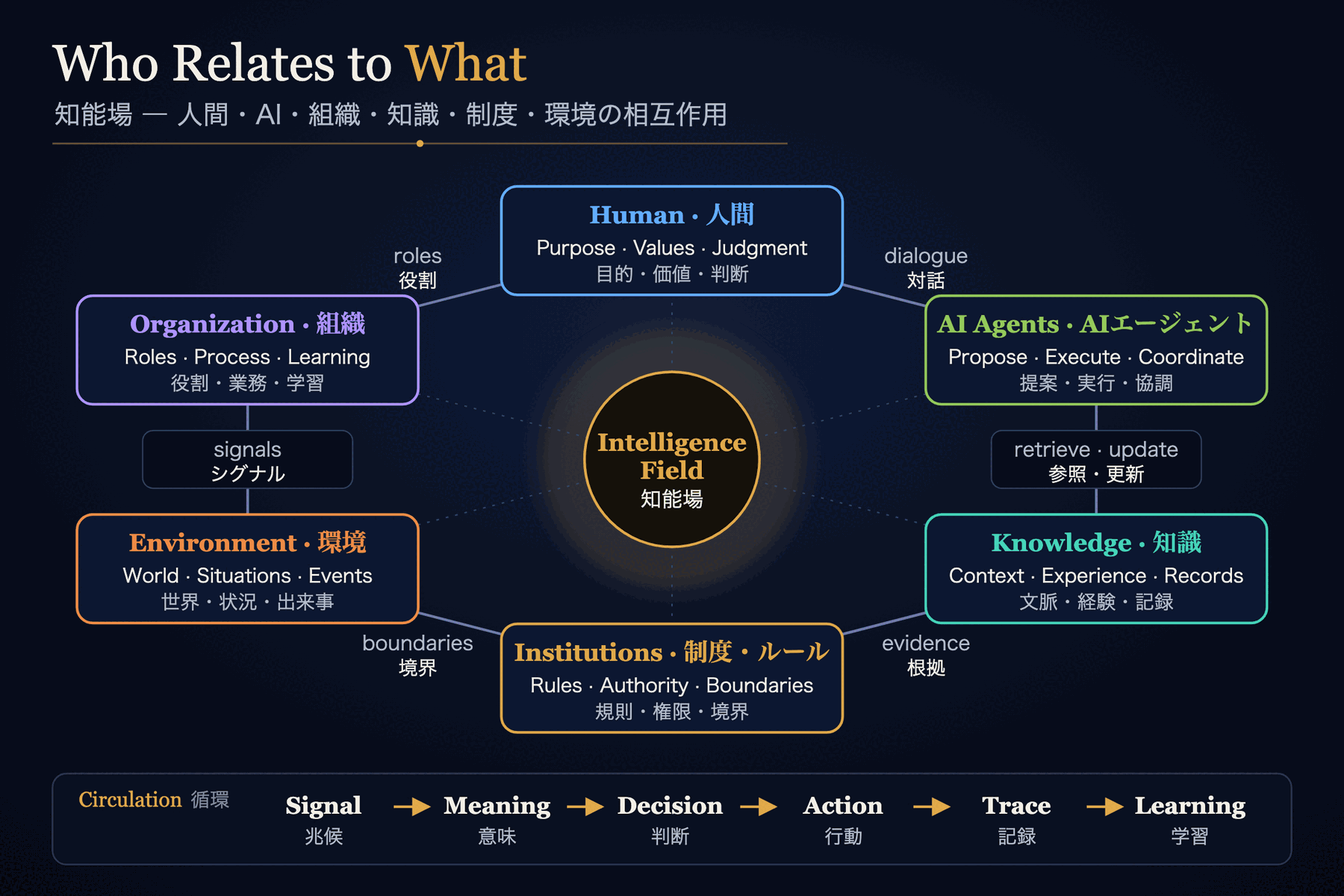
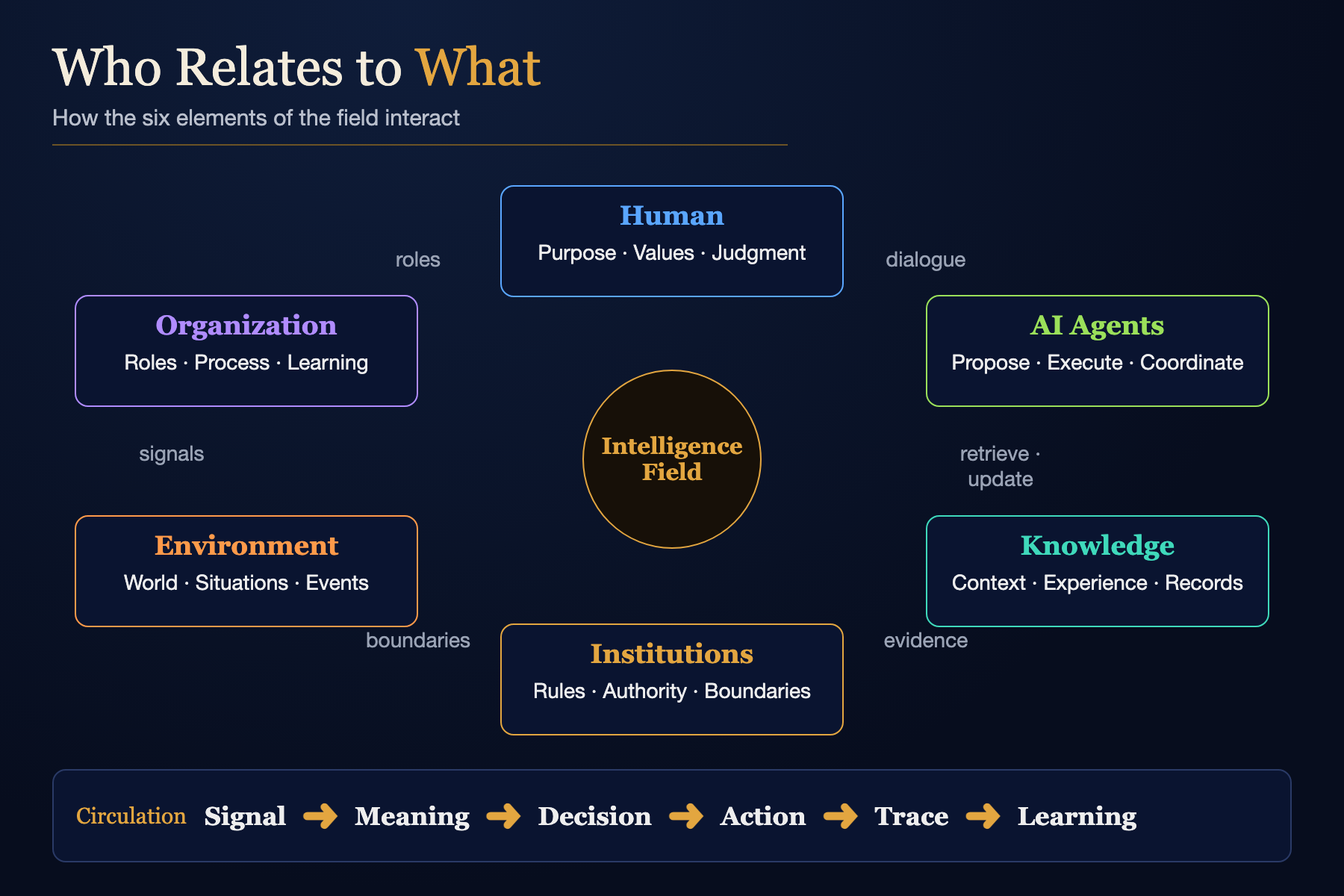
Unify philosophy of AI page in English

diff --git a/research/philosophy-of-ai/index.html b/research/philosophy-of-ai/index.html
@@ -486,31 +486,23 @@
         relationships among humans, AI agents, organizations, knowledge,
         institutions, and environment — an <strong>Intelligence Field</strong>.
       </p>
-      <p class="hero-desc ja" lang="ja" style="margin-top:14px;font-size:14px;">
-        知能は単体の能力ではなく、人・AI・組織・知識・制度・環境の「関係」の中で形づくられる——
-        その関係の空間を「知能場（Intelligence Field）」と呼び、AIの設計と統治の出発点として問い直します。
-      </p>
 
       <div class="q-grid" aria-label="Four guiding questions">
         <a class="q" href="#problem">
           <div class="q-idx">Q1 / Problem</div>
           <p class="q-text">Why is “a smarter single AI” not enough?</p>
-          <span class="ja" lang="ja">なぜ「より賢い単一AI」だけでは足りないのか</span>
         </a>
         <a class="q" href="#field">
           <div class="q-idx">Q2 / Concept</div>
           <p class="q-text">What is an Intelligence Field?</p>
-          <span class="ja" lang="ja">知能場（Intelligence Field）とは何か</span>
         </a>
         <a class="q" href="#implications">
           <div class="q-idx">Q3 / Governance</div>
           <p class="q-text">In what relationships should AI be designed and governed?</p>
-          <span class="ja" lang="ja">組織・社会で、AIはどんな関係性の中で設計・統治されるべきか</span>
         </a>
         <a class="q" href="#implications">
           <div class="q-idx">Q4 / Practice</div>
           <p class="q-text">What does this change in real AI system design?</p>
-          <span class="ja" lang="ja">実際のAIシステム設計に何をもたらすのか</span>
         </a>
       </div>
 
@@ -533,7 +525,7 @@
                alt="From a single model to an Intelligence Field — the single-intelligence view places intelligence inside one model with one subject, one center, and one world model; the Intelligence Field places it in the circulating relationships among humans, AI agents, organizations, and knowledge"
                loading="lazy">
         </a>
-        <figcaption class="figure-caption">Fig. 01 — From a single model to an Intelligence Field（単一知能モデルから知能の場へ）</figcaption>
+        <figcaption class="figure-caption">Fig. 01 — From a single model to an Intelligence Field</figcaption>
       </figure>
     </div>
   </header>
@@ -549,7 +541,6 @@
           autonomous agents. Yet the harder problems appear when AI connects
           to society, and they are not problems a single model can solve alone.
         </p>
-        <span class="gloss" lang="ja">モデルが賢くなるほど、本当の課題は「社会とどう接続するか」に移ります。</span>
       </div>
 
       <div class="concept-grid cols-4">
@@ -557,25 +548,21 @@
           <div class="idx">i</div>
           <h3>The single-subject assumption</h3>
           <p>AGI is often imagined as one subject, one center, one complete world model. Human intelligence, by contrast, has always formed through other people, organizations, culture, and institutions.</p>
-          <span class="ja" lang="ja">単一の主体・中心・世界モデルという前提</span>
         </div>
         <div class="concept">
           <div class="idx">ii</div>
           <h3>Knowledge is no longer scarce</h3>
           <p>Generative AI has collapsed the cost of producing knowledge. The bottleneck moves from <em>having</em> knowledge to meaning, trust, and responsibility for its use.</p>
-          <span class="ja" lang="ja">知識のコモディティ化。課題は「意味・信頼・責任」へ</span>
         </div>
         <div class="concept">
           <div class="idx">iii</div>
           <h3>A signal is not a decision</h3>
           <p>In healthcare, finance, law, or manufacturing, accuracy is not enough. Who decided, why, under what constraints, and who is accountable must be answerable.</p>
-          <span class="ja" lang="ja">予測精度だけでは、判断の責任を担えない</span>
         </div>
         <div class="concept">
           <div class="idx">iv</div>
           <h3>Values are not singular</h3>
           <p>Alignment is hard because “correct values” differ by situation, organization, and culture. Society is many agents, many contexts, many relationships.</p>
-          <span class="ja" lang="ja">「正しい価値」は一つではない</span>
         </div>
       </div>
 
@@ -607,7 +594,6 @@
             less individual performance than <strong>coordination structure</strong>
             — how AI relates, not only how smart it is.
           </p>
-          <span class="gloss" lang="ja">「AGIの終わり」とはAI技術の終わりではなく、孤立した超知能という発想の限界を指します。</span>
         </div>
       </div>
     </div>
@@ -624,7 +610,6 @@
           agents, organizations, governance, and knowledge — a space in which
           knowledge, experience, trust, and judgment continuously circulate.
         </p>
-        <span class="gloss" lang="ja">知能場とは、人・AI・組織・知識・統治がつながり、知識・経験・信頼・判断が循環する関係の空間です。</span>
       </div>
 
       <div class="two-col">
@@ -671,7 +656,7 @@
                alt="Who relates to what — human, AI agents, knowledge, institutions, environment, and organization are linked in a ring around the Intelligence Field, with signal, meaning, decision, action, trace, and learning circulating through them"
                loading="lazy">
         </a>
-        <figcaption class="figure-caption">Fig. 02 — Humans, AI, organizations, knowledge, institutions, and environment（六つの要素の相互作用）</figcaption>
+        <figcaption class="figure-caption">Fig. 02 — Humans, AI, organizations, knowledge, institutions, and environment</figcaption>
       </figure>
 
       <p class="figure-lede">
@@ -698,7 +683,6 @@
         research hypothesis and a design lens, not a settled theory or a
         forecast. It makes concrete, testable demands on how AI systems are
         built and governed — the sections below spell them out.
-        <span class="ja" lang="ja">知能場は確立した理論や未来予測ではなく、設計の視点としての研究仮説です。</span>
       </div>
     </div>
   </section>
@@ -714,7 +698,6 @@
           information to become action? Life, meaning, and decision give the
           Intelligence Field its grounding.
         </p>
-        <span class="gloss" lang="ja">情報はどのように意味となり、判断・行動になるのか。生命・意味・判断が知能場の土台です。</span>
       </div>
 
       <figure class="figure figure-wide figure-main" style="margin-top:0">
@@ -887,7 +870,6 @@
           structure. Eight components recur across the books and topic essays;
           each opens into its own line of Chinoba research.
         </p>
-        <span class="gloss" lang="ja">関係としての知能を支える八つの構成要素。それぞれが個別の研究テーマにつながります。</span>
       </div>
 
       <div class="concept-grid cols-4">
@@ -895,49 +877,41 @@
           <div class="idx">i</div>
           <h3>Relational Intelligence</h3>
           <p>The root claim — intelligence as interaction, connection, coordination, and knowledge circulation rather than internal capability.</p>
-          <span class="ja" lang="ja">関係的知能</span>
         </div>
         <div class="concept">
           <div class="idx">ii</div>
           <h3>Meaning &amp; Language Games</h3>
           <p>Meaning is made in use, inside shared rules and forms of life. Different “games” — science, law, economics, family — give the same word different meanings.</p>
-          <span class="ja" lang="ja">意味と言語ゲーム</span>
         </div>
         <div class="concept">
           <div class="idx">iii</div>
           <h3>Trust Infrastructure</h3>
           <p>Structures that make human–AI relationships visible, traceable, and accountable: who decided, on what basis, where humans intervened, where it stopped.</p>
-          <span class="ja" lang="ja">信頼のインフラ</span>
         </div>
         <div class="concept">
           <div class="idx">iv</div>
           <h3>Knowledge Flow</h3>
           <p>Knowledge that reaches the next decision, is updated by its outcome, and circulates again — instead of resting in a database.</p>
-          <span class="ja" lang="ja">知識の循環</span>
         </div>
         <div class="concept">
           <div class="idx">v</div>
           <h3>Decision Trace</h3>
           <p>Event, signal, meaning, decision, execution, log — the decision loop recorded as one continuous, replayable structure.</p>
-          <span class="ja" lang="ja">判断の追跡可能性</span>
         </div>
         <div class="concept">
           <div class="idx">vi</div>
           <h3>Boundary &amp; Human Gate</h3>
           <p>Where AI assists, where humans decide, where the system must pause, confirm, or escalate. Boundary design <em>is</em> relationship design.</p>
-          <span class="ja" lang="ja">境界と人の関門</span>
         </div>
         <div class="concept">
           <div class="idx">vii</div>
           <h3>Coordination AI</h3>
           <p>From <em>Answer AI</em> to AI that translates context between people, supports agreement, and reduces misunderstanding — without monopolizing the answer.</p>
-          <span class="ja" lang="ja">答えるAIから調整するAIへ</span>
         </div>
         <div class="concept">
           <div class="idx">viii</div>
           <h3>Relationship Memory</h3>
           <p>Trust is the history of a relationship. Trust and influence graphs make visible who influences whom, how knowledge propagates, and where bottlenecks form.</p>
-          <span class="ja" lang="ja">関係の記憶（信頼・影響グラフ）</span>
         </div>
       </div>
 
@@ -1082,7 +1056,6 @@
           happened. These are design principles and research hypotheses,
           offered for testing, not predictions.
         </p>
-        <span class="gloss" lang="ja">以下は未来予測ではなく、設計原理・研究仮説・実務上の含意として提示します。</span>
       </div>
 
       <div class="concept-grid cols-3">
@@ -1094,7 +1067,6 @@
             <li>Each agent sees the purpose, evidence, and limits behind its local judgment, without holding unlimited authority.</li>
             <li>Autonomy means acting inside a permitted scope and returning exceptions to people.</li>
           </ul>
-          <span class="ja" lang="ja">エージェント：役割分担と最小権限、全体の目的への参照</span>
         </div>
         <div class="concept">
           <div class="idx">B / Organizations</div>
@@ -1104,7 +1076,6 @@
             <li>Shift from Answer AI to Coordination AI: dialog spaces, context translation, agreement support.</li>
             <li>Keep humans thinking: augment judgment instead of replacing it.</li>
           </ul>
-          <span class="ja" lang="ja">組織：知識の循環、調整するAI、人の思考を拡張する設計</span>
         </div>
         <div class="concept">
           <div class="idx">C / Governance</div>
@@ -1114,7 +1085,6 @@
             <li>AI generates signals; decisions are settled inside a runtime that applies policy, boundary, risk, and Human Gate.</li>
             <li>Trace every decision so local actions reconnect to purpose and outcome.</li>
           </ul>
-          <span class="ja" lang="ja">統治：関係性・権限・根拠・監査の設計</span>
         </div>
       </div>
 
@@ -1125,7 +1095,7 @@
                alt="Governance as relationship design — instead of only controlling the AI itself, design the relationship, authority, evidence, and audit around each proposal, check, human gate, execution, and trace, with the same four questions applied from organization to workflow to agent to tool call"
                loading="lazy">
         </a>
-        <figcaption class="figure-caption">Fig. 14 — AI governance as relationship design（関係性・権限・根拠・監査の設計）</figcaption>
+        <figcaption class="figure-caption">Fig. 14 — AI governance as relationship design</figcaption>
       </figure>
 
       <div class="subhead">Five building blocks for implementation</div>
@@ -1262,12 +1232,11 @@
         <div class="section-label">06 / Buddhist Thought as Design Thinking</div>
         <h2 id="philosophy-h">Dependent Origination and Non-Centrality</h2>
         <p class="section-lede">
-          Buddhist ideas such as dependent origination (縁起), non-self
-          (無我), and emptiness (空) are used here as lenses for design — not
+          Buddhist ideas such as dependent origination (<em>Engi</em>), non-self
+          (<em>Muga</em>), and emptiness (<em>Kū</em>) are used here as lenses for design — not
           as religious claims, and not as a statement that any scripture
           predicted AI.
         </p>
-        <span class="gloss" lang="ja">仏教思想は信仰や予言としてではなく、分散的・協調的なAI設計を考えるための「視点」として扱います。</span>
       </div>
 
       <div class="two-col">
@@ -1321,7 +1290,7 @@
                alt="Dependent origination and distributed AI design — dependent origination maps to relational intelligence; non-self to multi-agent roles without an omniscient center; emptiness to context graphs and meaning infrastructure; Indra's Net to verifiable references and minimal authority; fractals to governance across scales; an analogy for design, not a doctrine"
                loading="lazy">
         </a>
-        <figcaption class="figure-caption">Fig. 18 — From Buddhist ideas to design principles（縁起・非中心性から設計原理へ）</figcaption>
+        <figcaption class="figure-caption">Fig. 18 — From Buddhist ideas to design principles</figcaption>
       </figure>
 
       <div class="two-col" style="margin-top: clamp(48px, 6vw, 72px);">
@@ -1329,10 +1298,10 @@
           <h3>The Lotus Sutra: three relations</h3>
           <p>
             Read as a reflection on relationship, three Lotus Sutra themes
-            line up with Chinoba's concerns. <em>Skillful means</em> (方便) —
+            line up with Chinoba's concerns. <em>Skillful means</em> (<em>Hōben</em>) —
             the same truth delivered differently to each listener — resembles
             Knowledge Flow: the right knowledge, in the right form, for the
-            right person. The <em>One Vehicle</em> (一乗) suggests diverse
+            right person. The <em>One Vehicle</em> (<em>Ichijō</em>) suggests diverse
             capabilities integrated at a higher level, as in an Intelligence
             Field. The <em>Eternal Buddha</em> points to our relationship with
             time — decisions that connect past, present, and future, as
@@ -1342,7 +1311,7 @@
         <div class="col-text">
           <h3>Why Zen's “emptiness” matters here</h3>
           <p>
-            “Emptiness” (空) does not mean nothing exists; it means nothing
+            “Emptiness” (<em>Kū</em>) does not mean nothing exists; it means nothing
             exists apart from everything else. Meaning is not a fixed entity —
             it arises within situations and relationships. For AI design, that
             is a practical statement: the same data means different things in
@@ -1379,7 +1348,6 @@
           the same question — where does intelligence live? — from a
           different starting point.
         </p>
-        <span class="gloss" lang="ja">このページの背景にある10本のトピック原稿。出発点は異なりますが、問いは一つです。</span>
       </div>
 
       <div class="essays topic-grid">
@@ -1387,86 +1355,86 @@
           <div class="kicker"><span class="topic-no">01</span>Knowledge Flow · Semantic Digital Twin</div>
           <h3>From Information to Meaning to Action</h3>
           <p>Life does not live for information; it turns signals into meaning, decision, and action. Enterprise AI needs the same chain — Knowledge Flow, Decision Trace, Policy and Boundary, a learning loop — anchored to reality by a Semantic Digital Twin.</p>
-          <span class="ja" lang="ja">情報を意味・判断・行動へつなぐ。知識ベースから知識フローへ。</span>
+          <span class="ja">From knowledge bases to knowledge flow.</span>
           <div class="topic-links"><a href="#foundations">See: Foundations →</a></div>
         </div>
         <div class="essay">
           <div class="kicker"><span class="topic-no">02</span>Buddhist thought</div>
           <h3>The Lotus Sutra and AI</h3>
           <p>Skillful means, One Vehicle, and the Eternal Buddha read through Knowledge Flow, emergence, and Decision Trace — all converging on relationship as the common ground of intelligence.</p>
-          <span class="ja" lang="ja">方便・一乗・久遠――すべては「関係」に通じる。</span>
+          <span class="ja">Skillful means, One Vehicle, the Eternal Buddha — all lead back to relationship.</span>
           <div class="topic-links"><a href="#philosophy">See: Buddhist Thought →</a></div>
         </div>
         <div class="essay">
           <div class="kicker"><span class="topic-no">03</span>AGI · Relational intelligence</div>
           <h3>Beyond the Single Superintelligence</h3>
           <p>Questions the unified-subject model behind AGI through non-self and dependent origination, and describes what “useful AI” and Intelligence-Field AI would be: dialog, circulation, boundaries, plural perspectives, trust, augmentation, transparency.</p>
-          <span class="ja" lang="ja">中央集権的AGI観への問いと、知能場から見た「良いAI」。</span>
+          <span class="ja">Questioning the centralized view of AGI — and what “good AI” looks like from the Intelligence Field.</span>
           <div class="topic-links">
             <a href="#implications">See: Implications →</a>
             <a href="https://www.youtube.com/watch?v=LprtLubpAGQ" target="_blank" rel="noopener noreferrer">Related video (EN) →</a>
-            <a href="https://www.youtube.com/watch?v=5JxoVBsn44Q" target="_blank" rel="noopener noreferrer">関連動画（日本語）→</a>
+            <a href="https://www.youtube.com/watch?v=5JxoVBsn44Q" target="_blank" rel="noopener noreferrer">Related video (Japanese) →</a>
           </div>
         </div>
         <div class="essay">
           <div class="kicker"><span class="topic-no">04</span>Multi-agent systems · Governance</div>
           <h3>Indra's Net, Fractals, and Multi-Agent Governance</h3>
           <p>Division of labor is not enough: each agent's judgment must reflect the whole purpose, evidence, authority, and accountability. Five building blocks and fractal governance make that operational.</p>
-          <span class="ja" lang="ja">因陀羅網とフラクタルから、マルチエージェントの統治へ。</span>
+          <span class="ja">From Indra's Net and fractals to multi-agent governance.</span>
           <div class="topic-links"><a href="#implications">See: Implications →</a></div>
         </div>
         <div class="essay">
           <div class="kicker"><span class="topic-no">05</span>Uncertainty · Trust · Adaptation</div>
           <h3>That's the Way of the World</h3>
           <p>AI handles probability, not truth; prediction is not decision. Because AI acts inside the world it predicts, the shift is from optimization to adaptation — and trust is an expectation about actions not yet taken.</p>
-          <span class="ja" lang="ja">不確実な世界で、最適化から適応へ。</span>
+          <span class="ja">In an uncertain world, from optimization to adaptation.</span>
           <div class="topic-links">
             <a href="#implications">See: Implications →</a>
             <a href="https://www.youtube.com/watch?v=gu4bL-ptyJc" target="_blank" rel="noopener noreferrer">Related video (EN) →</a>
-            <a href="https://www.youtube.com/watch?v=szEJY5VXsnA" target="_blank" rel="noopener noreferrer">関連動画（日本語）→</a>
+            <a href="https://www.youtube.com/watch?v=szEJY5VXsnA" target="_blank" rel="noopener noreferrer">Related video (Japanese) →</a>
           </div>
         </div>
         <div class="essay">
           <div class="kicker"><span class="topic-no">06</span>Decision · Meaning</div>
           <h3>Can AI Really Decide?</h3>
           <p>Generating an answer is not making a decision. Drawing on Schrödinger, Deacon, and Zen, it argues that decision is meaning generated in relationship — and introduces the Decision Trace Model and the Intelligence Field.</p>
-          <span class="ja" lang="ja">答えを生成することと、判断することは違う。</span>
+          <span class="ja">Generating an answer is not the same as making a decision.</span>
           <div class="topic-links">
             <a href="#foundations">See: Foundations →</a>
             <a href="https://youtu.be/N-5uBB77yck" target="_blank" rel="noopener noreferrer">Related video (EN) →</a>
-            <a href="https://youtu.be/GbkFMyqnO7c" target="_blank" rel="noopener noreferrer">関連動画（日本語）→</a>
+            <a href="https://youtu.be/GbkFMyqnO7c" target="_blank" rel="noopener noreferrer">Related video (Japanese) →</a>
           </div>
         </div>
         <div class="essay">
           <div class="kicker"><span class="topic-no">07</span>Life · Purpose</div>
           <h3>Information in Life</h3>
           <p>Reading Paul Nurse's <em>What Is Life?</em>: living things manage information to act with purpose, and purpose is what gives information its meaning. A bridge from biology to the philosophy of meaning.</p>
-          <span class="ja" lang="ja">生命は情報を扱い、目的が情報に意味を与える。</span>
+          <span class="ja">Life handles information; purpose gives information its meaning.</span>
           <div class="topic-links"><a href="#foundations">See: Foundations →</a></div>
         </div>
         <div class="essay">
           <div class="kicker"><span class="topic-no">08</span>Meaning Infrastructure · Runtime Society</div>
           <h3>Beyond Knowledge Infrastructure</h3>
           <p>Shannon's theory excludes meaning; RAG and knowledge graphs answer “what do we know?” The next layers are Meaning Infrastructure and Purpose Infrastructure — coordinating purposes, the foundation of a Runtime Society.</p>
-          <span class="ja" lang="ja">知識インフラの次は、意味と目的のインフラ。</span>
+          <span class="ja">After knowledge infrastructure comes infrastructure for meaning and purpose.</span>
           <div class="topic-links"><a href="/research/runtime-society">Related research: Runtime Society →</a></div>
         </div>
         <div class="essay">
           <div class="kicker"><span class="topic-no">09</span>Wittgenstein · Intelligence Field</div>
           <h3>From Language Games to Intelligence Fields</h3>
           <p>If meaning exists in use, intelligence exists in relationships. AI is a participant in humanity's language games, and Trust Infrastructure is the foundation that makes Intelligence Fields possible.</p>
-          <span class="ja" lang="ja">言語ゲームから知能場へ。</span>
+          <span class="ja">From language games to the Intelligence Field.</span>
           <div class="topic-links">
             <a href="#field">See: Intelligence Field →</a>
             <a href="https://www.youtube.com/watch?v=ARiGSZO_nCE" target="_blank" rel="noopener noreferrer">Related video (EN) →</a>
-            <a href="https://www.youtube.com/watch?v=zxwrgBqPDH0" target="_blank" rel="noopener noreferrer">関連動画（日本語）→</a>
+            <a href="https://www.youtube.com/watch?v=zxwrgBqPDH0" target="_blank" rel="noopener noreferrer">Related video (Japanese) →</a>
           </div>
         </div>
         <div class="essay">
           <div class="kicker"><span class="topic-no">10</span>Research journey</div>
           <h3>From Decision Trace to “What Is Intelligence?”</h3>
           <p>A personal account: starting from knowledge management and the question “so what should we do?”, the Decision Trace Model led back to life, and from Schrödinger's “What is life?” to “What is intelligence?”</p>
-          <span class="ja" lang="ja">判断を追っていたら、生命に行き着いた。</span>
+          <span class="ja">Tracing decisions led us back to life itself.</span>
           <div class="topic-links"><a href="/research/decision-trace-model">Related research: Decision Trace Model →</a></div>
         </div>
       </div>
@@ -1512,7 +1480,7 @@
             <div class="theme-lang">English Edition</div>
             <div class="theme-item">AI Philosophy <span class="theme-sub">— Life, Meaning, and the Architecture of Intelligence</span><span class="theme-soon">Coming Soon</span><span class="theme-note">A philosophical foundation for Decision, Knowledge, Trust, Runtime Society, and Human–AI Coordination.</span></div>
             <div class="theme-lang">Japanese Edition</div>
-            <div class="theme-item">AI Philosophy <span class="theme-sub">— 生命・意味・知能のアーキテクチャ</span><span class="theme-soon">近日刊行予定</span><span class="theme-note">判断・知識・信頼・Runtime Society・人とAIの協調をつなぐ思想体系。</span></div>
+            <div class="theme-item">AI Philosophy <span class="theme-sub">— 生命・意味・知能のアーキテクチャ</span><span class="theme-soon">Coming Soon</span><span class="theme-note">A philosophical foundation for Decision, Knowledge, Trust, Runtime Society, and Human–AI Coordination.</span></div>
           </div>
         </div>
       </div>
@@ -1530,7 +1498,6 @@
           practical guides follow the decision-centered side. English
           editions shown here.
         </p>
-        <span class="gloss" lang="ja">知能場の議論を詳しく展開した2冊と、判断設計の実践ガイド2冊。</span>
       </div>
 
       <div class="books-list">
